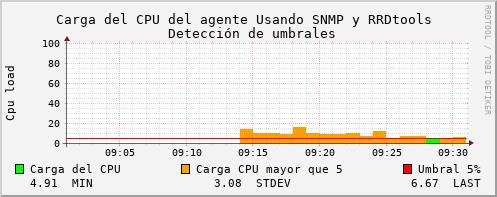
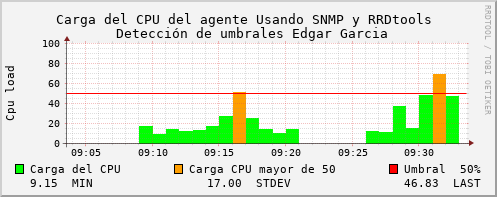
Ejercicio miercoles

diff --git a/p3/Parte1- Línea Base/trendGraphDetection.py b/p3/Parte1- Línea Base/trendGraphDetection.py
@@ -5,34 +5,38 @@ import time
 rrdpath = '/home/edgar/Documents/GitHub/Redes3/p3/RRD/'
 imgpath = '/home/edgar/Documents/GitHub/Redes3/p3/IMG/'
 
-ultima_lectura = int(rrdtool.last(rrdpath+"trend.rrd"))
-tiempo_final = ultima_lectura
-tiempo_inicial = tiempo_final - 1800
-
-ret = rrdtool.graphv( imgpath+"deteccion.png",
+def generarGrafica(ultima_lectura):
+    tiempo_final = int(ultima_lectura)
+    tiempo_inicial = tiempo_final - 1800
+    ret = rrdtool.graphv( imgpath+"deteccion.png",
                      "--start",str(tiempo_inicial),
                      "--end",str(tiempo_final),
                      "--vertical-label=Cpu load",
                     '--lower-limit', '0',
                     '--upper-limit', '100',
-                    "--title=Carga del CPU del agente Usando SNMP y RRDtools \n Detección de umbrales",
+                    "--title=Carga del CPU del agente Usando SNMP y RRDtools \n Detección de umbrales Edgar Garcia",
                     "DEF:cargaCPU="+rrdpath+"trend.rrd:CPUload:AVERAGE",
                      "VDEF:cargaMAX=cargaCPU,MAXIMUM",
                      "VDEF:cargaMIN=cargaCPU,MINIMUM",
                      "VDEF:cargaSTDEV=cargaCPU,STDEV",
                      "VDEF:cargaLAST=cargaCPU,LAST",
-                 #   "CDEF:cargaEscalada=cargaCPU,8,*",
-                     "CDEF:umbral5=cargaCPU,5,LT,0,cargaCPU,IF",
+                     "CDEF:umbral50=cargaCPU,50,LT,0,cargaCPU,IF",
                      "AREA:cargaCPU#00FF00:Carga del CPU",
-                     "AREA:umbral5#FF9F00:Carga CPU mayor que 5",
-                     "HRULE:5#FF0000:Umbral 5%",
+                     "AREA:umbral50#FF9F00:Carga CPU mayor de 50",
+                     "HRULE:50#FF0000:Umbral  50%",
                      "PRINT:cargaLAST:%6.2lf",
                      "GPRINT:cargaMIN:%6.2lf %SMIN",
                      "GPRINT:cargaSTDEV:%6.2lf %SSTDEV",
                      "GPRINT:cargaLAST:%6.2lf %SLAST" )
-print (ret)
+    print (ret)
 
-ultimo_valor=float(ret['print[0]'])
-if ultimo_valor>5:
-    send_alert_attached("Sobrepasa Umbral línea base")
-    print("Sobrepasa Umbral línea base")
+while (1):
+    ultima_actualizacion = rrdtool.lastupdate(rrdpath + "trend.rrd")
+    timestamp=ultima_actualizacion['date'].timestamp()
+    dato=ultima_actualizacion['ds']["CPUload"]
+    print(dato)
+    if dato> 50:
+        generarGrafica(int(timestamp))
+        send_alert_attached("Sobrepasa el umbral Edgar Garcia Marciano")
+        print("sobrepasa el umbral")
+    time.sleep(20)

diff --git a/p3/Parte1- Línea Base/TrendUpdate.py b/p3/Parte1- Línea Base/TrendUpdate.py
@@ -5,8 +5,14 @@ rrdpath = '/home/edgar/Documents/GitHub/Redes3/p3/RRD/'
 carga_CPU = 0
 
 while 1:
-    carga_CPU = int(consultaSNMP('comunidadSNMP','localhost','1.3.6.1.2.1.25.3.3.1.2.196608'))
-    valor = "N:" + str(carga_CPU)
+    carga_CPU1 = int(consultaSNMP('comunidadSNMP','localhost','1.3.6.1.2.1.25.3.3.1.2.196608'))
+    carga_CPU2 = int(consultaSNMP('comunidadSNMP', 'localhost', '1.3.6.1.2.1.25.3.3.1.2.196609'))
+    carga_CPU3 = int(consultaSNMP('comunidadSNMP', 'localhost', '1.3.6.1.2.1.25.3.3.1.2.196610'))
+    carga_CPU4 = int(consultaSNMP('comunidadSNMP', 'localhost', '1.3.6.1.2.1.25.3.3.1.2.196611'))
+
+    suma = (carga_CPU1+carga_CPU2+carga_CPU3+carga_CPU4)/4
+
+    valor = "N:" + str(suma)
     print (valor)
     rrdtool.update(rrdpath+'trend.rrd', valor)
    # rrdtool.dump(rrdpath+'trend.rrd','trend.xml')

diff --git a/p3/Parte1- Línea Base/Notify.py b/p3/Parte1- Línea Base/Notify.py
@@ -9,7 +9,7 @@ imgpath = '/home/edgar/Documents/GitHub/Redes3/p3/IMG/'
 fname = 'trend.rrd'
 
 mailsender = "dummycuenta3@gmail.com"
-mailreceip = "dummycuenta3@gmail.com"
+mailreceip = "dummycuenta3@gmail.com" #linea de codigo a modiciar para el correo
 mailserver = 'smtp.gmail.com: 587'
 password = 'dvduuffmlhspbmjj'
 
